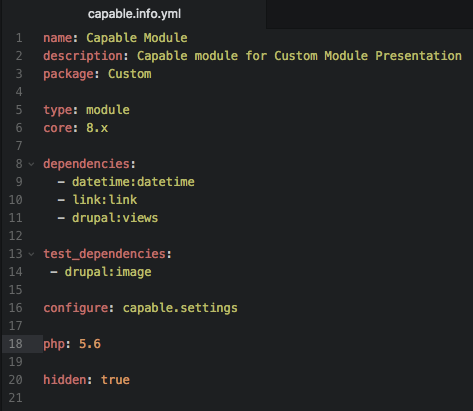
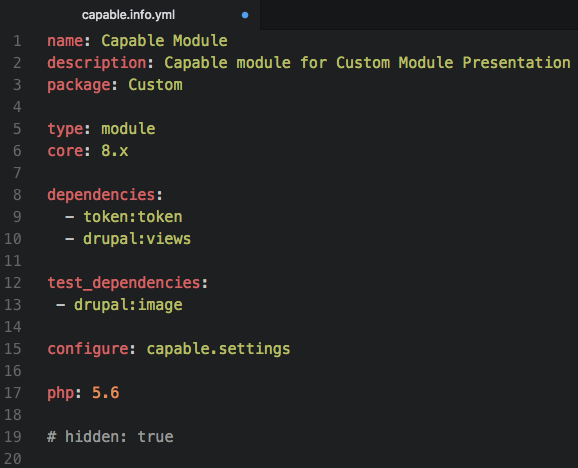
Namespaces, .info file info, more tweaks

diff --git a/index.html b/index.html
@@ -56,6 +56,44 @@
 				</section>
 
 				<section>
+					<h3>Vocabulary Time</h3>
+					<ul>
+						<li class="fragment">
+							Types of files:
+							<ul>
+								<li>
+									YAML (YAML Ain't Markup Language): .yml, .yaml
+								</li>
+								<li>
+									PHP: Hypertext Preprocessor: .php,
+								</li>
+								<li>
+
+								</li>
+							</ul>
+						</li>
+						<li class="fragment">
+							Namespaces
+							<ul>
+								<li>
+									Drupal code base is pretty big
+								</li>
+								<li>
+									Namespacing helps you avoid repeating the name for a function or class that has been declared before
+								</li>
+								<li>
+									Eliminates need for super long class names, points to where in the code you can find the source of the functions
+								</li>
+							</ul>
+						</li>
+					</ul>
+				</section>
+
+				<section>
+					<h3>Namespaces</h3>
+				</section>
+
+				<section>
 					<h3>The Module Skeleton</h3>
 					<img src="images/skeleton.gif" style="width: 400px;"/>
 				</section>
@@ -116,7 +154,7 @@
 					<h3>capable.info.yml</h3>
 					<ul>
 						<li>The info.yml file lives in your root folder and tells Drupal about your module</li>
-						<li>The info.yml file information is found on the Drupal admin pages (/admin/modules)</li>
+						<li>The info.yml file information can be found on the Drupal admin pages (/admin/modules)</li>
 					</ul>
 					<img src="images/capable-module-info-file.png" />
 				</section>
@@ -131,31 +169,65 @@
 					<div class="left">
 						<img src="images/capable-module-info-file-2.png" />
 					</div>
-					<div class="right">
+					<div class="right font-16">
 						<ul>
-							<li>
-								depedencies:
+							<li class="fragment">
+								depedencies: <br />
+								<ul>
+									<li>List the other module(s) that your module depends on to work.</li>
+									<li>Namespacing: {project}:{module}</li>
+									<li>{project} is the name as it appears in the Drupal.org url (https://www.drupal.org/project/token)</li>
+									<li>{module} is the module machine name (token)</li>
+									<li>Can also include version restrictions: token:token (8.x-1.3)</li>
+								</ul>
 							</li>
-							<li>
+							<li class="fragment">
 								test_dependencies:
+								<ul>
+									<li>List the module(s) you need to run automated tests</li>
+									<li>Same namespacing as dependecies: {project}:{module} </li>
+								</ul>
 							</li>
-							<li>
+							<li class="fragment">
 								configure:
+								<ul>
+									<li>Specify the route to a configuration form</li>
+									<li>This will show on the /admin/modules pages when you expand [this needs different words or an image]</li>
+								</ul>
 							</li>
-							<li>
+							<li class="fragment">
 								php:
+								<ul>
+									<li>Defines the <strong>minimum</strong> PHP verison that your module requires</li>
+									<li>Can't enable the module if your PHP version is older</li>
+								</ul>
 							</li>
-							<li>
-								hidden
+							<li class="fragment">
+								hidden:
+								<ul>
+									<li>hidden: true, will hide your your module on the /admin/modules page</li>
+									<li>Why would you hide your module? Perhaps it only implements tests and you don't want it disabled</li>
+								</ul>
 							</li>
 						</ul>
 					</div>
 				</section>
 
 				<section>
-					<h3>Namespaces</h3>
+					<h2>All The Sources</h2>
+					<img src="images/read-all-the-things.png" />
 				</section>
 
+				<section>
+					Namespaces
+					<ul>
+						<li><a href="https://www.sitepoint.com/php-53-namespaces-basics/">https://www.sitepoint.com/php-53-namespaces-basics/</a></li>
+						<li><a href="https://www.drupal.org/docs/develop/coding-standards/namespaces">https://www.drupal.org/docs/develop/coding-standards/namespaces</a></li>
+						<li>
+							<a href="https://en.wikipedia.org/wiki/Namespace">https://en.wikipedia.org/wiki/Namespace</a>
+						</li>
+					</ul>
+				</section>
 				<section>
 					<h3>Questions?</h3>
 					<img src="images/questions.gif" style="width: 500px;">
